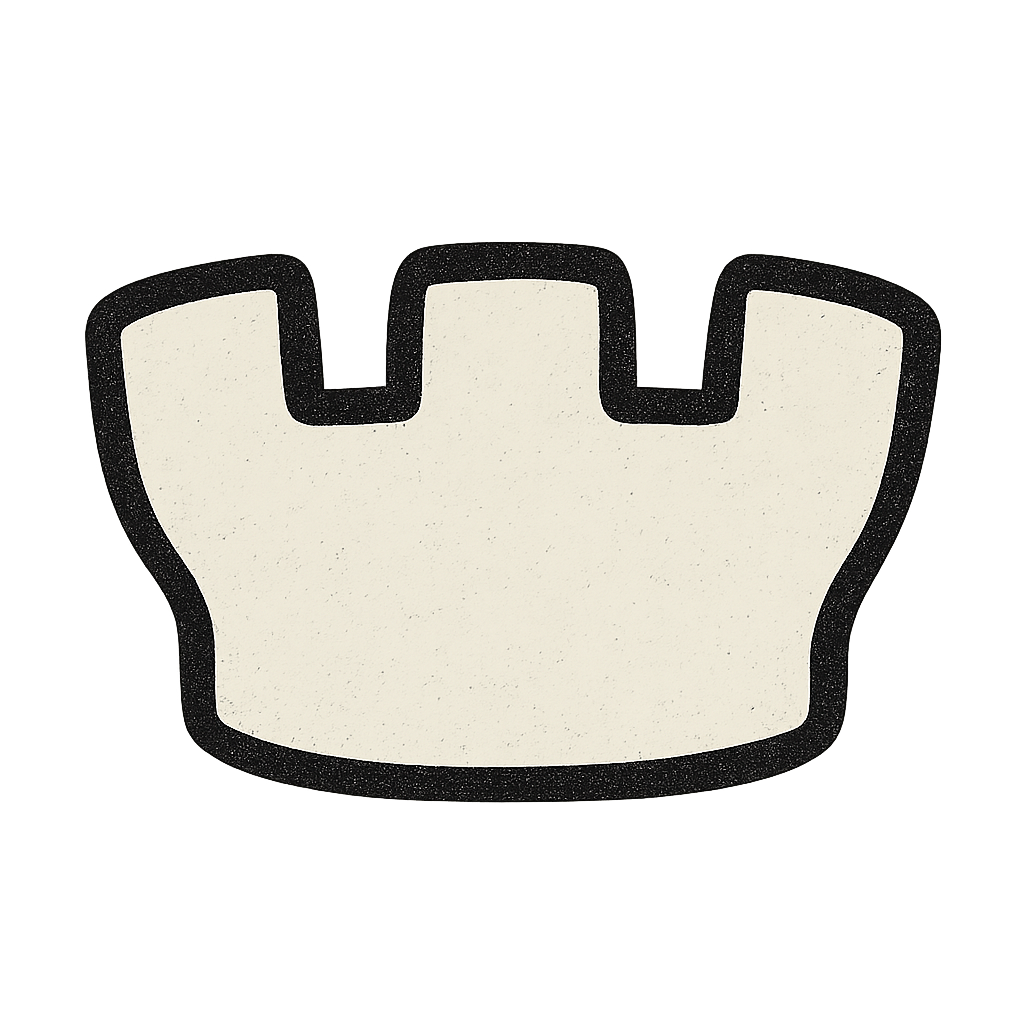
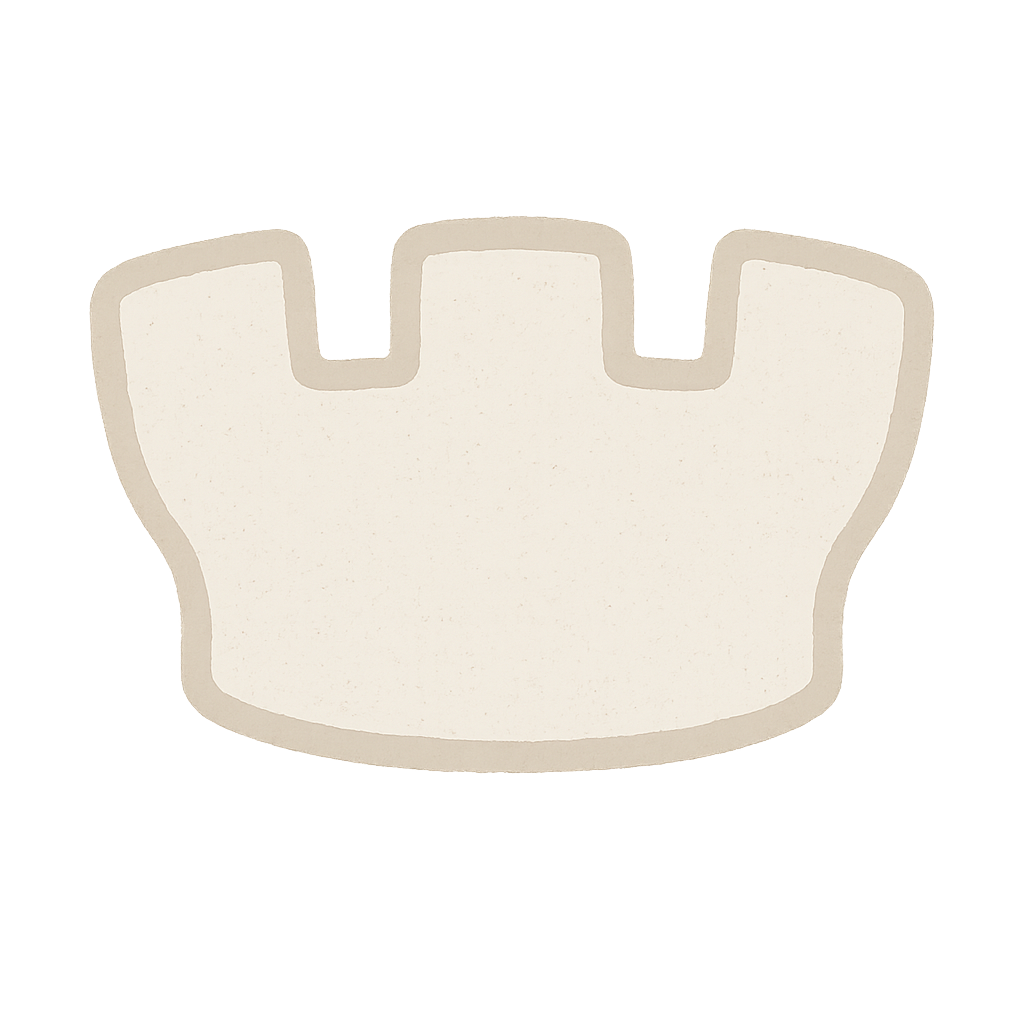
Playground experiments

Changed region(s): [[0.0625, 0.1875, 0.9375, 0.7812]]

diff --git a/sketches/playground.ts b/sketches/playground.ts
@@ -1,7 +1,7 @@
 import {
     velocityStep, gravity, reduceAnimators, arrayAnimator,
     cubicBox, scene, drawImage,
-    gray, randomObject, zoomToBoundingBox, clearFrame, Scene,
+    randomObject, zoomToBoundingBox, clearFrame, Scene,
 } from '@/sketcher'
 
 let circleImage: HTMLImageElement | null = null
@@ -46,9 +46,10 @@ export async function playgroundScene(): Promise<Scene<any>> {
         loadCrownImage()
     ])
 
-    const maxVelocity = 5
+    const maxVelocity = 10
     const fixedMass = 2
-    const fixedRadius = 50
+    const circleRadius = 40  // Smaller circles
+    const crownRadius = 80   // Much larger crowns
     const box = cubicBox(500)
 
     // First set: 4 circle objects
@@ -59,9 +60,13 @@ export async function playgroundScene(): Promise<Scene<any>> {
             box,
             rToM: 1,
         })
-        obj.radius = fixedRadius
-        ;(obj as any).imageType = 'circle'
-        return obj
+        return {
+            ...obj,
+            radius: circleRadius,
+            imageType: 'circle',
+            rotation: 0,
+            angularVelocity: 0, // No rotation for circles
+        }
     })
 
     // Second set: 3 crown objects
@@ -72,11 +77,13 @@ export async function playgroundScene(): Promise<Scene<any>> {
             box,
             rToM: 1,
         })
-        obj.radius = fixedRadius
-        ;(obj as any).imageType = 'crown'
-        ;(obj as any).rotation = 0
-        ;(obj as any).rotationSpeed = (Math.random() - 0.5) * 0.1 // Random rotation speed between -0.05 and 0.05
-        return obj
+        return {
+            ...obj,
+            radius: crownRadius,
+            imageType: 'crown',
+            rotation: 0,
+            angularVelocity: (Math.random() - 0.5) * 0.1, // Random rotation speed between -0.05 and 0.05
+        }
     })
 
     const sets = [circleSet, crownSet]
@@ -116,22 +123,18 @@ export async function playgroundScene(): Promise<Scene<any>> {
                     return obj
                 })
             },
-            // Custom rotation animator for crowns
+            // Custom rotation animator for all objects
             (objects) => {
-                return objects.map(obj => {
-                    if ((obj as any).imageType === 'crown') {
-                        const rotation = (obj as any).rotation || 0
-                        const rotationSpeed = (obj as any).rotationSpeed || 0
-                        ;(obj as any).rotation = rotation + rotationSpeed
-                    }
-                    return obj
-                })
+                return objects.map(obj => ({
+                    ...obj,
+                    rotation: obj.rotation + obj.angularVelocity,
+                }))
             },
             velocityStep(),
         )),
         layers: [{
             prepare({ canvas }) {
-                clearFrame({ canvas, color: gray(230) })
+                clearFrame({ canvas, color: 'black' })
             }
         }, {
             prepare({ canvas, state }) {
@@ -144,15 +147,14 @@ export async function playgroundScene(): Promise<Scene<any>> {
             render({ canvas, state }) {
                 state.forEach((set) => set.forEach(
                     object => {
-                        const image = (object as any).imageType === 'crown' ? crownImg : circleImg
-                        const rotation = (object as any).imageType === 'crown' ? (object as any).rotation : undefined
+                        const image = object.imageType === 'crown' ? crownImg : circleImg
                         drawImage({
                             image,
                             center: object.position,
                             context: canvas.context,
                             width: object.radius * 2,
                             height: object.radius * 2,
-                            rotation,
+                            rotation: object.rotation,
                         })
                     }
                 ))
